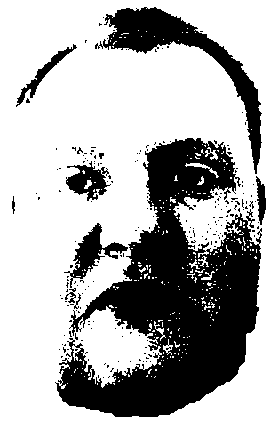
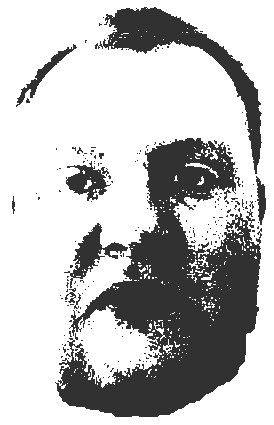
Colors fixed, texture added

diff --git a/src/components/Navbar/NavMenu.module.scss b/src/components/Navbar/NavMenu.module.scss
@@ -28,18 +28,18 @@
 border: none;
 font-size: 1rem;
 font-weight: 700;
-  background-color: white;
+  background-color: $white;
   padding: 1rem;
   --duration: 0.44s;
   --move-hover: -4px;
-  --shadow: 0 0px 0px 0px black;
-  --shadow-hover:  2px 4px 0px black;
+  --shadow: 0 0px 0px 0px #313131;
+  --shadow-hover:  2px 4px 0px #313131;
   
 
 
 
-  border-top: 2px solid black;
-  border-bottom: 2px solid black;
+  border-top: 2px solid #313131;
+  border-bottom: 2px solid #313131;
 
   box-shadow: var(--shadow);
 
@@ -48,7 +48,7 @@ font-weight: 700;
     box-shadow var(--duration) ease;
 
     &:hover{
-      border: 2px solid black;
+      border: 2px solid #313131;
       margin-inline: -2px;
       --y: var(--move-hover);
       --x: var(--move-hover);
@@ -61,11 +61,11 @@ font-weight: 700;
 .firstButton{
   border-bottom-left-radius: 3rem;
   border-top-left-radius: 3rem;
-  border-left: 2px solid black;
+  border-left: 2px solid #313131;
 
   &:hover{
     margin-inline: -1px;
-    box-shadow: 3px 4px 0px black;
+    box-shadow: 3px 4px 0px #313131;
   }
 
  
@@ -76,7 +76,7 @@ font-weight: 700;
 .lastButton{
   border-bottom-right-radius: 3rem;
     border-top-right-radius: 3rem;
-    border-right: 2px solid black;
+    border-right: 2px solid #313131;
     &:hover{
       margin-inline: -1px;
     }
@@ -158,7 +158,7 @@ font-weight: 700;
   position: absolute;
   top:1rem;
   background-color: $bg_lightgray;
-  border: 2px solid black;
+  border: 2px solid #313131;
   padding:1rem;
   box-shadow: 6px 6px 0px $primary;
   animation-duration: 400ms;
@@ -258,7 +258,7 @@ font-weight: 700;
     background-color: $bg_gray;
     //padding: 0.25rem 0.5rem;
     border-radius: 0.25rem;
-    border: 2px solid black;
+    border: 2px solid #313131;
 
     text-transform: lowercase;
 

diff --git a/src/components/FAQ/FAQ.module.scss b/src/components/FAQ/FAQ.module.scss
@@ -9,7 +9,7 @@
   margin: auto;
   font-size: 1rem;
   // background-color: var(--mauve6);
-  // box-shadow: 0 2px 10px var(--blackA4);
+  // box-shadow: 0 2px 10px var(--#313131A4);
 }
 
 .AccordionItem {
@@ -46,7 +46,7 @@
   border: none;
   font-size: 1rem;
   font-weight: 700;
-  //border: 2px solid black;
+  //border: 2px solid #313131;
   padding: 1rem;
   //border-radius: 3rem;
   flex: 1;
@@ -98,7 +98,7 @@ font-size: 1rem;
     display: block;
     width: 18px;
     height:0px;
-    border-bottom: solid 2px black;
+    border-bottom: solid 2px #313131;
     position: absolute;
     bottom:18px /2 - 2px /2;
     transform: rotate(90deg);
@@ -110,7 +110,7 @@ font-size: 1rem;
     display: block;
     width: 18px;
     height:0px;
-    border-bottom: solid 2px black;
+    border-bottom: solid 2px #313131;
     position: absolute;
     bottom:18px /2 - 2px/2;
   }
@@ -123,7 +123,7 @@ font-size: 1rem;
     display: block;
     width: 0px;
     height:0px;
-    border-bottom: solid 2px black;
+    border-bottom: solid 2px #313131;
     position: absolute;
     bottom:18px /2 - 2px/2;
     transform: rotate(90deg);

diff --git a/src/components/TableOfContents/TableOfContents.module.scss b/src/components/TableOfContents/TableOfContents.module.scss
@@ -102,9 +102,9 @@ $listItem_padding-right: 0.5rem;
 
 
 	&:has(> a.active) {
-		background-color: darken($color: $tertiary, $amount: 5);
+		background-color: darken($color: $white, $amount: 5);
 		a{
-			color: $type_primary !important;
+			color: $type_secondary !important;
 		}		
 
 		&::after {
@@ -128,7 +128,7 @@ $listItem_padding-right: 0.5rem;
 
 
 	&:has(> a.active) {
-		background-color: darken($color: $tertiary, $amount: 5);
+		background-color: darken($color: $white, $amount: 5);
 		a{
 			color: $type_primary !important;
 		}
@@ -152,7 +152,7 @@ $listItem_padding-right: 0.5rem;
 	
 
 	&:has(> a.active) {
-		background-color: darken($color: $tertiary, $amount: 5);
+		background-color: darken($color: $white, $amount: 5);
 		a{
 			color: $type_primary !important;
 		}
@@ -174,7 +174,7 @@ $listItem_padding-right: 0.5rem;
 
 
 	&:has(> a.active) {
-		background-color: darken($color: $tertiary, $amount: 5);
+		background-color: darken($color: $white, $amount: 5);
 				a{
 			color: $type_primary !important;
 			

diff --git a/styles/globals.scss b/styles/globals.scss
@@ -14,9 +14,27 @@ body {
 	max-width: 100vw;
 	scroll-behavior: smooth;
   line-height: normal;
+  background-color: #f7f5ec;
+  color: #313131;
+
+}
+
+.overlay{
+  position: absolute;
+  left: 0;
+  top: 0;
+  width: 100%;
+  height: 100%;
+  pointer-events: none;
+  z-index: 100;
+  mix-blend-mode: overlay;
+  background-size: 157px;
+  opacity: 0.2;
+  background-image: url("/textures/noise.png");
 }
 
 .layout {
+  position: relative;
   display: flex;
   flex-direction: column;
   min-height: 100vh;

diff --git a/styles/colors.scss b/styles/colors.scss
@@ -1,17 +1,18 @@
 $tags: #383838;
 
-$primary: #141414;
+//313131
+$primary: #313131;
 
-$bg_black: #141414;
-$bg_gray: #e5e5e5;
-$bg_lightgray: #f4f4f4;
+$bg_black: #313131;
+$bg_gray: #dbdbcf;
+$bg_lightgray: #e9e9df;
 
-$white: rgb(224, 224, 224);
+$white: #f7f5ec;
 $secondary: #f07b37;
 $tertiary: #f1f1f1;
 
 $eee: #565555;
 
 $type_primary: #141414;
-$type_secondary: #737373;
+$type_secondary: #313131;
 $type_important: $secondary;

diff --git a/src/components/Navbar/Navbar.tsx b/src/components/Navbar/Navbar.tsx
@@ -20,7 +20,7 @@ const Navbar = ({ posts }: { posts: PostMeta[] }) => {
 				<header className={s.navBar}>
 					<div className={s.logoContainer}>
 						<Link href={"/"}>
-							<TypeLogo className={s.typeLogo} fill={"#252529"}/>
+							<TypeLogo className={s.typeLogo} fill={"#313131"}/>
 						</Link>
 					</div>
 					<NavMenu posts={posts} />

diff --git a/styles/Home.module.scss b/styles/Home.module.scss
@@ -87,10 +87,10 @@
   align-items: center;
   height: 4rem;
   margin-top: 2rem;
-  background-color: #ffffff;
+  background-color: $bg_lightgray;
   color: #141414;
   cursor: pointer;
-  border: 3px solid #141414;
+  border: 3px solid #313131;
   font-weight: 700;
   @include font-size(1.8rem);
   transition: 0.3s ease;

diff --git a/styles/Post.module.scss b/styles/Post.module.scss
@@ -14,8 +14,8 @@
 }
 
 .headingContainer {
-  border-top: 2px solid black;
-  border-bottom: 2px solid black;
+  border-top: 2px solid #313131;
+  border-bottom: 2px solid #313131;
 
   width: 100%;
   @include parentBoiler;
@@ -192,7 +192,7 @@
   h4,
   h5,
   h6 {
-    color: #000000;
+    color: #313131;
   }
 
   h1 {

diff --git a/src/pages/_app.tsx b/src/pages/_app.tsx
@@ -33,9 +33,9 @@ export default function App({ Component, pageProps }: AppProps) {
 
 	return (
 		<>
-<div className={"layout"}>
+<div className={`${"layout"}`}>
 
-
+<div className={"overlay"}></div>
 			<main  className={`${inter.className} ${"content"}`}>
 				<Component {...pageProps} />
 				<Analytics />

diff --git a/src/components/ArticleItem/ArticleItem.module.scss b/src/components/ArticleItem/ArticleItem.module.scss
@@ -108,7 +108,7 @@ $maxWidth: 1fr;
 .readArticle {
 	button {
 		padding: 0.7rem;
-		background-color: #ffffff;
+		background-color: $bg_lightgray;
 		color: $primary;
 		cursor: pointer;
 		border: 2px solid $primary;

diff --git a/src/components/Footer/Footer.module.scss b/src/components/Footer/Footer.module.scss
@@ -6,7 +6,7 @@
 	@include parentBoiler;
 	padding-top: 3rem;
 	padding-bottom: 3rem;
-	background-color: black;
+	background-color: #313131;
 	color: $white;
 
   flex-shrink: 0;
